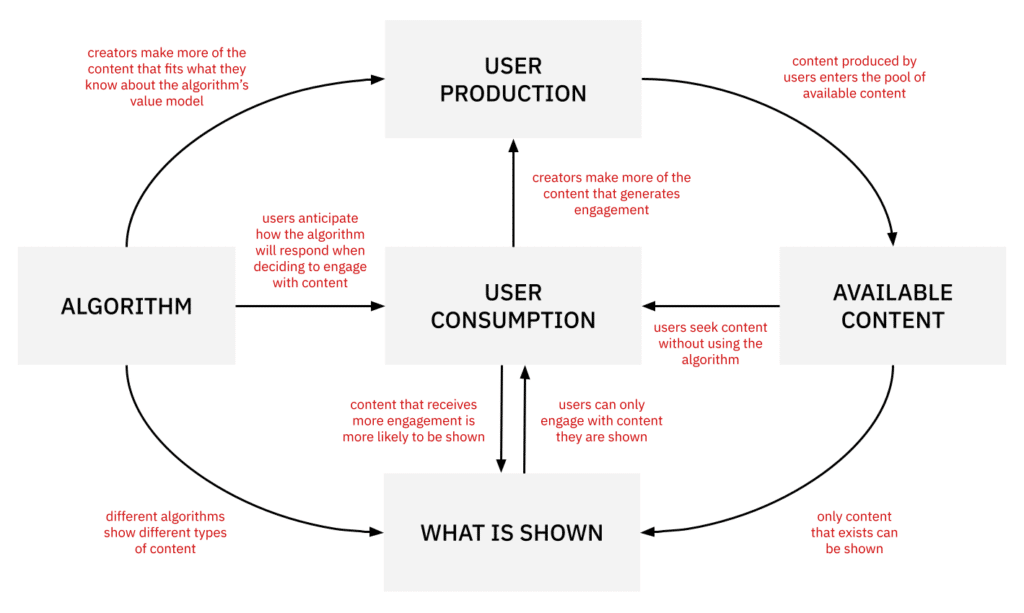
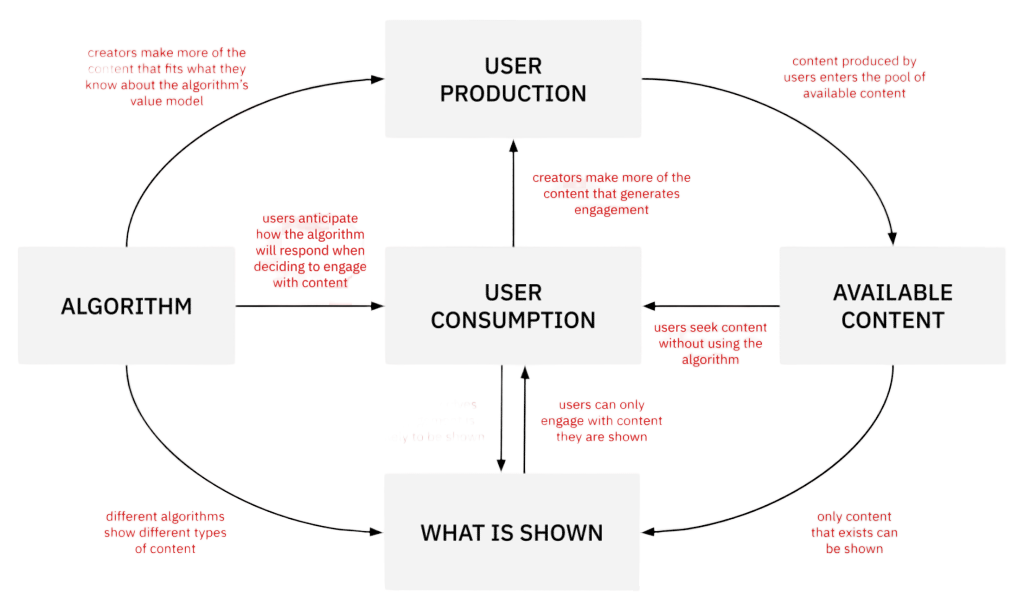
Added transparent background for images and tried to add a navigation bar with dropdown

diff --git a/CS-II/Projects/ConspiracyTheory.html b/CS-II/Projects/ConspiracyTheory.html
@@ -3,11 +3,9 @@
   <head>
     <meta charset="utf-8">
     <title>Projects - Conspiracy Theories</title>
-  </head>
-
   <style>
     h1 {
-	margin: 0;
+	margin-top: 0;
 	text-align: center;
 	color: red;
 	font-size: 45px;
@@ -91,27 +89,93 @@
 	margin-right: auto;
 	width: 50%;
     }
-  </style>
 
+    ul {
+	list-style-type: none;
+	margin: 0;
+	padding: 0;
+	overflow: hidden;
+	background-color: #333;
+	position: fixed;
+	top: 0;
+	width: 100%;
+    }
+    
+    li {
+	float: left;
+    }
+    
+    li a, .droptbtn {
+	display: inline-block;
+	color: white;
+	text-align: center;
+	padding: 14px 16px;
+	text-decoration: none;
+    }
+
+    li a:hover, .dropdown:hover .dropbtn {
+	background-color: #111;
+    }
+
+    li.dropdown {
+	display: inline-block;
+    }
+
+    .dropdown-content {
+	position: absolute;
+	background-color: #f9f9f9;
+	min-width: 160px;
+	box-shadow: 0px 8px 16px 0px rgba(0,0,0,0.2);
+	z-index: 1;
+    }
+    
+    .dropdown-content a {
+	color: black;
+	padding: 12px 16px;
+	text-decoration: none;
+	display: block;
+	text-align: left;
+    }
+    
+    .dropdown-content a:hover {background-color: #f1f1f1;}
+    
+    .dropdown:hover .dropdown-content {
+	display: block;
+    }
+  </style>
+  </head>
+  
   <body>
     <div class="gradient-background">
+      <ul>
+	<li><a href="../../index.html">Back to Home</a></li>
+	<li><a href="ConspiracyTheory.css">CSS File(Under Construction)</a></li>
+	<li class="dropdown">
+	  <a class="dropbtn">Dropdown</a>
+	  <div class="dropdown-content">
+	    <a href=".recommendation"><h4>Recommendation Algorithms</h4></a>
+	    <a href=".feedback">Feedback Loop</a>
+	    <a href=".amplification">Conspiracy Theory & Algorithmic Amplification</a>
+	    <a href=".incentives">Platform Incentives</a>
+	    <a href=".exploitation">Potential for Exploitation</a>
+	  </div>
+	</li>
+      </ul>
+      
       <h1>Conspiracy Theories</h1>
       <p>Date: 03-October-2023</p>
-
-      <h5><u>Navigation</u></h5>
-      <a href="ConspiracyTheory.css"><h4>CSS File(Under Programming)</h4></a>
-      <a href="../journals.html"><h4>Back to Journals</h4></a>
-
-      <h2>The Basics of Recommendation Algorithms</h2>
+      <p>I was assisted by: W3Schools(for the dropdown menu).</p>
+      
+      <h2 class="recommendation">The Basics of Recommendation Algorithms</h2>
       <h3>On the surface level, recommendation algorithms do exactly what they sound like. They recommend the user with content that is similar to the content that was looked at by the user previously. Recommendation algorithms are digital tools that suggest things to users based on their interests and actions, but they can sometimes create bubbles of similar content, so it's important to use them responsibly.</h3>
       <p>They function as the invisible hand behind personalized content suggestions on various online platforms, from social media to e-commerce websites. These algorithms operate by closely tracking and analyzing user interactions, such as clicks, likes, shares, and viewing durations, and subsequently constructing individualized user profiles that encapsulate their preferences and behaviors. In parallel, they create profiles for the content available on the platform, categorizing it by attributes like subject matter or popularity. The primary role of these algorithms is to match the user's profile with content profiles and present recommendations based on this alignment.</p>
-      <img src="Images/RecommendationAlgorithms.png" width="auto" height="auto" class="center">
+      <img src="Images/Recommendation.png" width="auto" height="auto" class="center">
 
       
       <h2>The Feedback Loop</h2>
       <h3>The Feedback loop is a type of a recommendation algorithm that the more you like or watch something, the more it suggests similar stuff, which can lead to seeing the same things repeatedly. This can eventually clog what the reader sees and generates extremely biased content about a topic which can make the user believe in that topic even more. </h3>
       <p class="text-gradient">The concept of the feedback loop within recommendation algorithms plays a pivotal role in how these systems function. This mechanism entails that when a user engages with specific content, such as liking, sharing, or watching, the algorithm takes note and subsequently suggests similar content. The objective is to refine and customize recommendations to align with the user's preferences and behavior over time. However, this practice, while intending to improve the user experience, also carries the risk of creating what is commonly referred to as a "filter bubble" or "echo chamber." This phenomenon occurs when users are consistently exposed to a limited range of content, effectively narrowing their digital horizons. In this context, the feedback loop is a double-edged sword, enhancing personalization but potentially limiting the diversity of content to which users are exposed. As a result, it is crucial to strike a balance between providing tailored recommendations and ensuring users are exposed to a broad spectrum of content, thus mitigating the adverse effects of over-personalization.</p>      
-      <img src="Images/FeedbackLoop.png" width="auto" height="auto" class="center">
+      <img src="Images/Feedback.png" width="auto" height="auto" class="center">
 
       <h2 class="black-text">Conspiracy Theories & Algorithmic Amplification</h2>
       <h3>Conspiracy theories and algorithmic amplification examine how recommendation algorithms can inadvertently reinforce and amplify such theories by continually suggesting related content, potentially contributing to the spread of misinformation and creating filter bubbles.</h3>
@@ -121,12 +185,12 @@
       <h2 class="black-text">Platform Incentives</h2>
       <h3>Platform incentives refer to the rewards, benefits, or motivations provided to users, developers, or stakeholders to encourage participation, engagement, or contributions on a platform or ecosystem. They make the user get more interactions with the app, spend more time browsing though content, and companies use this tactic to keep the users submerged into their app.</h3>
       <p>An incentive is a way to motivate people by offering rewards that drive them to act in a particular manner. There exist various types of incentives, such as bonuses, commissions, contests, and goals, each designed to encourage individuals to excel in their roles or attain specific objectives. While some incentives involve giving out cash rewards, others provide non-monetary benefits like gift cards or merchandise. Incentive programs can also be structured around a points-based system where individuals accumulate points for favorable actions, or they can include pro-social incentives that reward both the person making a referral and the one being referred. In certain situations, incentives take the form of travel rewards or sweepstakes, offering participants a chance to win prizes. These incentive mechanisms are employed to motivate and recognize individuals for their contributions and accomplishments across a wide range of domains, from sales to employee performance.</p>
-      <img src="Images/Incentive.jpg" width="auto" height="auto" class="center">
+      <img src="Images/Incentive.png" width="auto" height="auto" class="center">
       
       <h2 class="black-text">Potential for Exploitation</h2>
       <h3>Potential for exploitation is a concept that highlights the inherent vulnerability or susceptibility of a system, process, or circumstance to be misused, manipulated, or leveraged in ways that may not align with its intended purpose. This vulnerability can be exploited by individuals, organizations, or malicious actors for personal gain, unethical purposes, or to cause harm, potentially leading to negative consequences, security breaches, or breaches of trust within a given context.</h3>
       <p>In today's world, social media platforms use algorithms that aim to keep users engaged by showing them content they are likely to find interesting. However, this approach can inadvertently lead to a lack of diversity in the information and viewpoints users encounter, potentially causing misunderstandings and reinforcing extreme opinions. Researchers have proposed that it's essential for social media users to become more aware of how these algorithms operate. Moreover, they suggest that social media companies could take steps to adjust their algorithms to present a broader spectrum of content. This change could help foster a more inclusive and balanced online community, offering a superior user experience while curbing polarization and the spread of false information. By doing so, these platforms can align better with human instincts that encourage cooperation and diverse perspectives, ultimately enhancing the overall social media experience.</p>
-      <img src="Images/Exploitation.jpg" width="auto" height="auto" class="center">
+      <img src="Images/Exploitation.png" width="auto" height="auto" class="center">
 
       
       <h3>Information Sources</h3>
